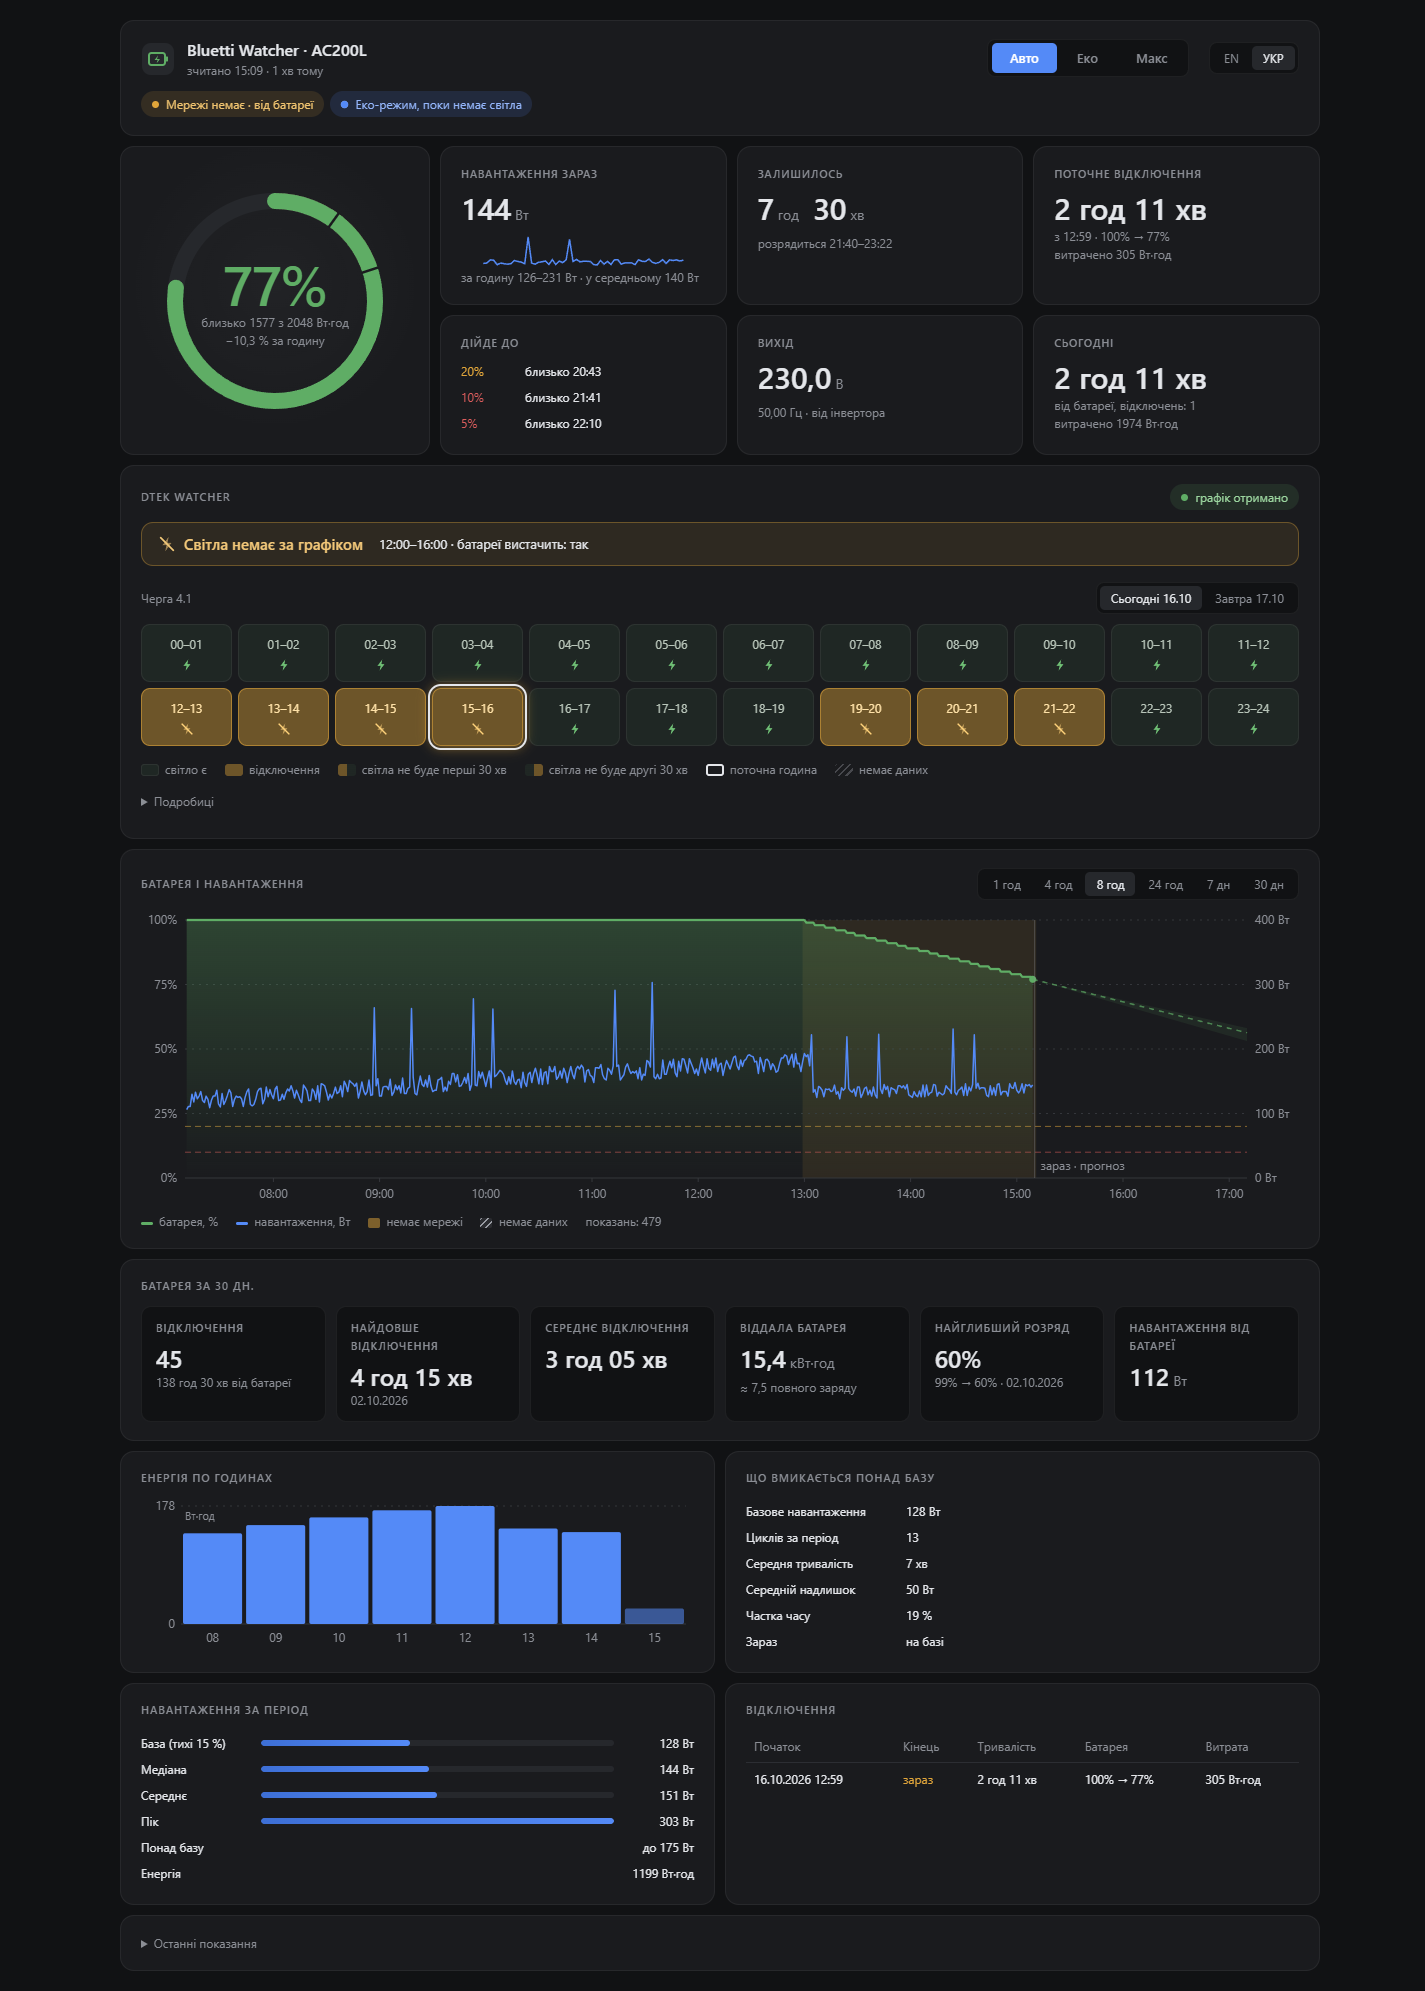
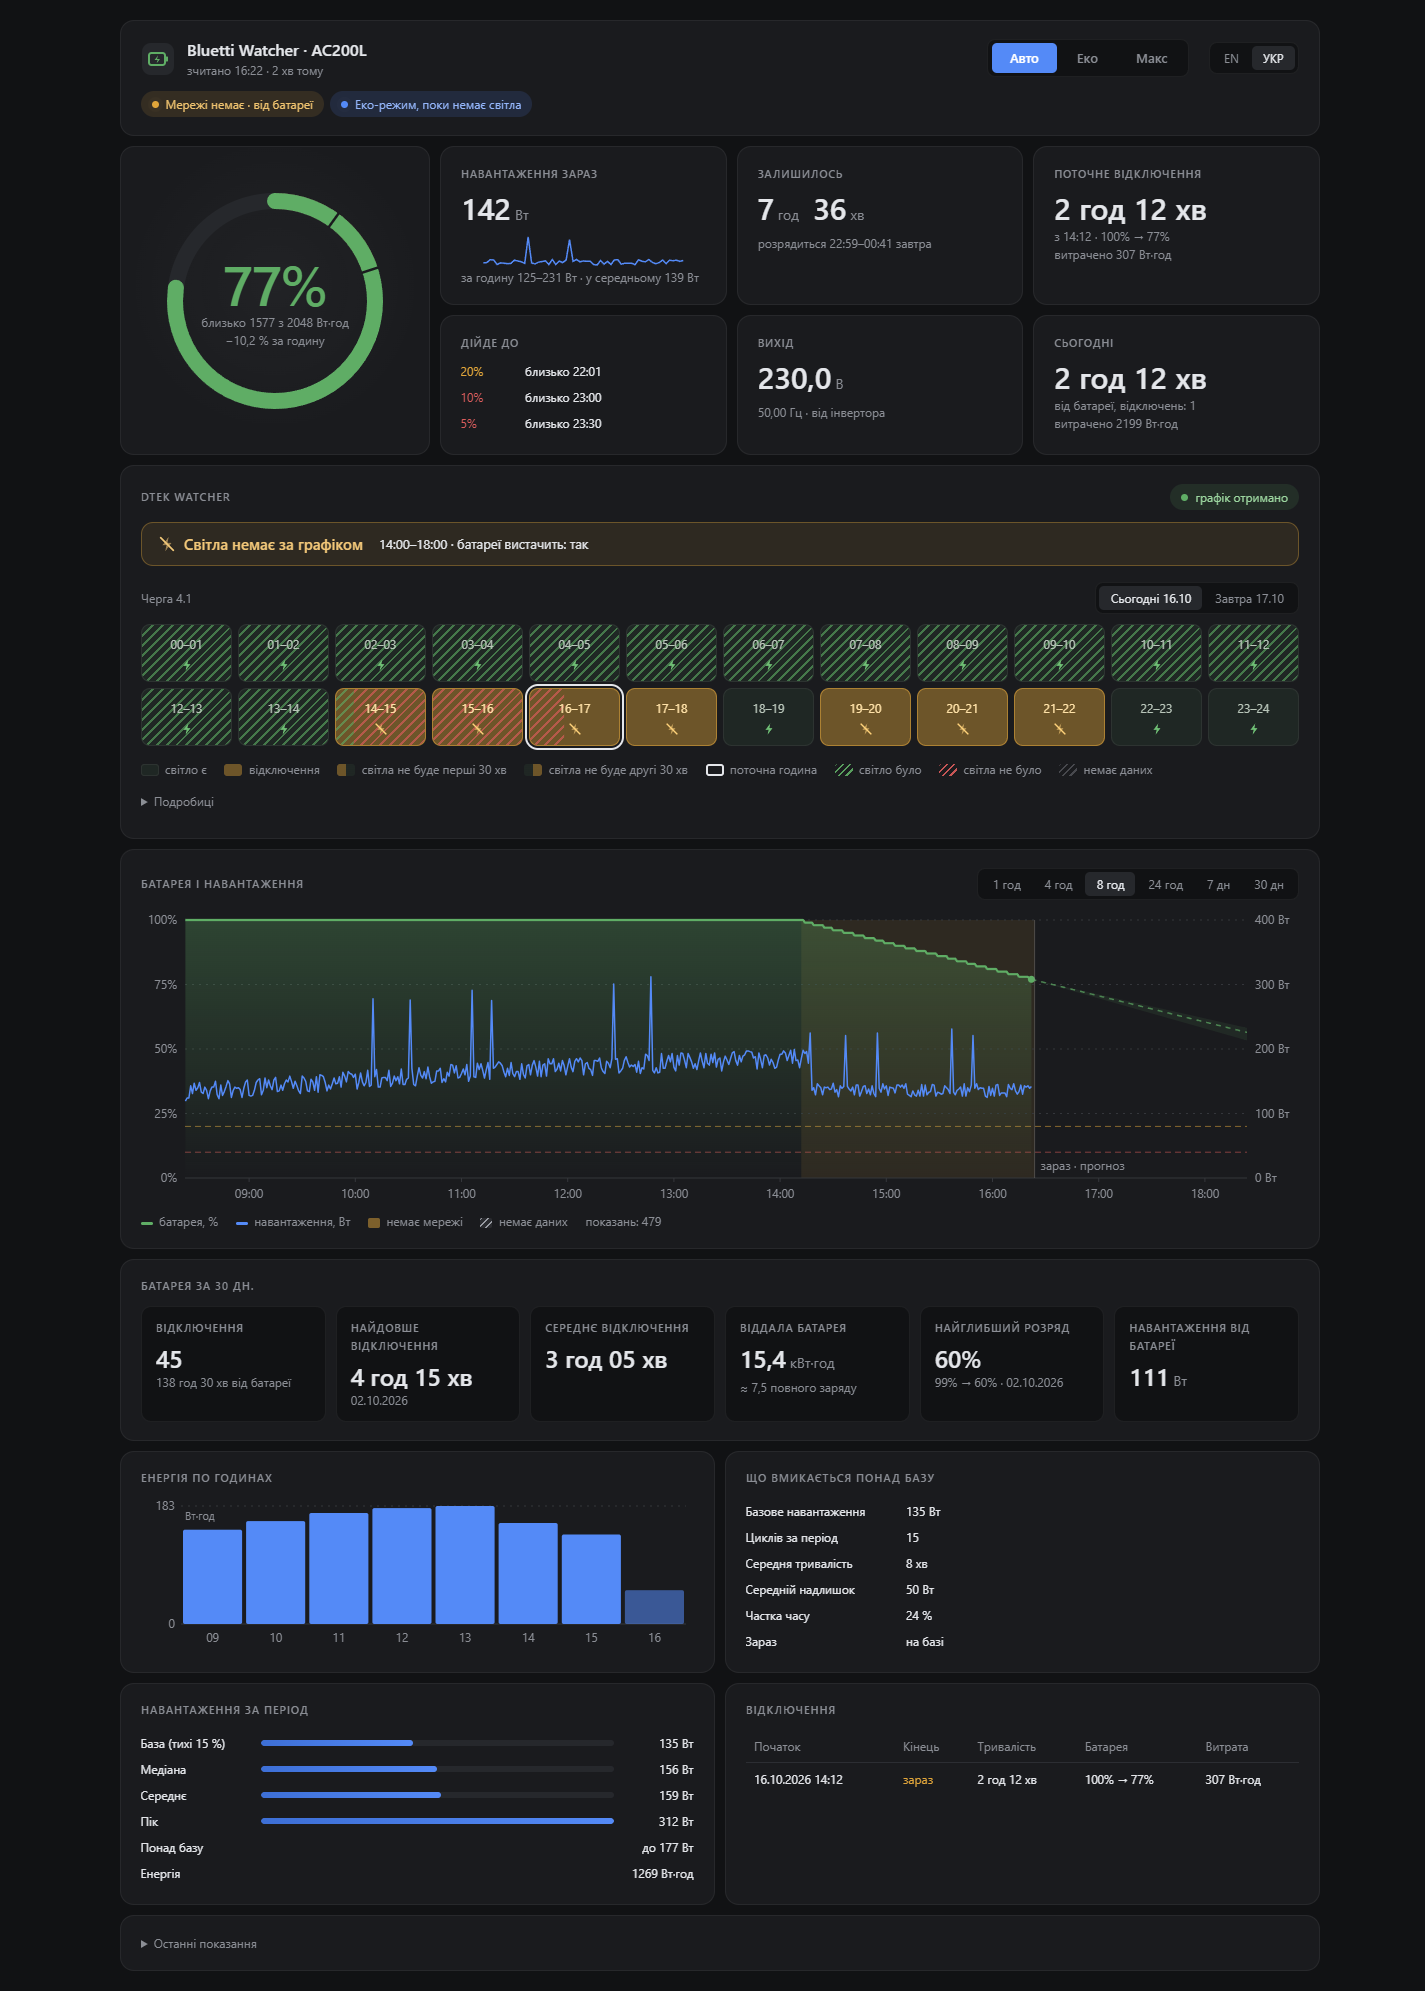
Bluetti Watcher 1.3.2: DTEK grid shows what really happened in past hours
Past minutes of today are hatched by the station's readings over the plan: power on,
power off or no reading, as phases in clock order on one stripe layer, each listed in the
cell tooltip. README, design doc and screenshots updated.

diff --git a/src/BluettiWatcher/Web/station.html b/src/BluettiWatcher/Web/station.html
@@ -60,7 +60,7 @@ tbody tr:hover td{background:rgba(255,255,255,.025)}
 .rowbar .fill{height:100%;border-radius:3px;background:linear-gradient(90deg,#3d6fd6,var(--load))}
 .rowbar .n{text-align:right;font-variant-numeric:tabular-nums}
 details summary{cursor:pointer;color:var(--dim);font-size:12px}
-#tip{position:fixed;pointer-events:none;background:var(--raised);border:1px solid var(--line);border-radius:8px;padding:6px 9px;font-size:12px;line-height:16px;display:none;z-index:5;max-width:340px;box-shadow:0 6px 18px rgba(0,0,0,.35)}
+#tip{white-space:pre-line;position:fixed;pointer-events:none;background:var(--raised);border:1px solid var(--line);border-radius:8px;padding:6px 9px;font-size:12px;line-height:16px;display:none;z-index:5;max-width:340px;box-shadow:0 6px 18px rgba(0,0,0,.35)}
 .note{color:var(--dim);font-size:12px;margin-top:10px}
 .dban{display:flex;flex-wrap:wrap;align-items:center;gap:6px 16px;padding:12px 16px;border-radius:12px;margin:12px 0 16px;font-size:13px}
 .dban b{display:inline-flex;align-items:center;gap:8px;font-size:15px;font-weight:600}
@@ -71,7 +71,12 @@ details summary{cursor:pointer;color:var(--dim);font-size:12px}
 .dtop{display:flex;align-items:center;justify-content:space-between;gap:10px;flex-wrap:wrap;margin-bottom:10px}
 .dq{color:var(--dim);font-size:12px}
 .dgrid{display:grid;grid-template-columns:repeat(12,1fr);gap:6px}
-.dgrid .c{height:58px;border-radius:9px;border:1px solid var(--edge);background:var(--onc);display:flex;flex-direction:column;align-items:center;justify-content:center;gap:5px;font-size:12px;font-variant-numeric:tabular-nums;color:#b9c6ba;transition:transform .15s,border-color .15s}
+.dgrid .c{height:58px;border-radius:9px;border:1px solid var(--edge);background:var(--onc);display:flex;flex-direction:column;align-items:center;justify-content:center;gap:5px;font-size:12px;font-variant-numeric:tabular-nums;color:#b9c6ba;transition:transform .15s,border-color .15s;position:relative;overflow:hidden}
+.dgrid .c>span,.dgrid .c>svg{position:relative;z-index:1}
+.dgrid .c .fact{position:absolute;inset:0;pointer-events:none}
+.fact.on{background:repeating-linear-gradient(135deg,rgba(95,173,101,.6) 0 2px,transparent 2px 7px)}
+.fact.off{background:repeating-linear-gradient(135deg,rgba(219,92,92,.65) 0 2px,transparent 2px 7px)}
+.fact.nd{background:repeating-linear-gradient(135deg,rgba(139,142,149,.45) 0 2px,transparent 2px 7px)}
 .dgrid .c svg{width:14px;height:14px;color:#6fbf75}
 .dgrid .c:hover{transform:translateY(-2px);border-color:rgba(255,255,255,.18)}
 .dgrid .c.off{background:var(--offc);border-color:rgba(224,165,58,.55);color:#ffe2a8}
@@ -345,6 +350,8 @@ en: {
   dtekSecondHalf: "no power for the second 30 min",
   dtekDetails: "Details",
   dtekOnUntil: "Power on until {at}",
+  dtekWasOn: "power was on",
+  dtekWasOff: "power was off",
   dtekBackEarly: "Power is back before the schedule",
   dtekPlannedUntil: "by the schedule until {at}",
   dtekUnplanned: "Outage outside the schedule",
@@ -581,6 +588,8 @@ uk: {
   dtekSecondHalf: "світла не буде другі 30 хв",
   dtekDetails: "Подробиці",
   dtekOnUntil: "Світло є до {at}",
+  dtekWasOn: "світло було",
+  dtekWasOff: "світла не було",
   dtekBackEarly: "Світло є раніше графіка",
   dtekPlannedUntil: "за графіком до {at}",
   dtekUnplanned: "Відключення поза графіком",
@@ -954,7 +963,19 @@ function kyivOffsetDiffers(ms) {
 }
 
 // DTEK Watcher: the planned outages of the house's queue, as the service read them. Every text of the site is escaped.
-function renderDtek(w, th, mainsOn) {
+// What the station saw in each minute of today up to now: 'on' (mains), 'off' (battery) or 'nd' (no accepted reading within 10 minutes).
+// `day0` = the start of today's first minute in ms. A reading holds until the next one, or for one minute before a longer silence.
+function factMinutes(rows, day0, upto) {
+  const m = new Array(Math.max(0, upto)).fill('nd'), gap = 10 * 60000, end = day0 + upto * 60000, ok = rows.filter((r) => r.soc !== null);
+  for (let i = 0; i < ok.length; i++) {
+    const t = Date.parse(ok[i].at), next = i + 1 < ok.length ? Date.parse(ok[i + 1].at) : Date.now();
+    if (next <= day0 || t >= end) continue;
+    const to = next - t <= gap ? next : t + 60000, st = ok[i].mains ? 'on' : 'off';
+    for (let k = Math.max(0, Math.floor((t - day0) / 60000)); k < Math.min(upto, Math.ceil((to - day0) / 60000)); k++) m[k] = st;
+  }
+  return m;
+}
+function renderDtek(w, th, mainsOn, hist) {
   const card = $('dtekCard');
   card.hidden = !w || w.state === 'off';
   if (card.hidden) return;
@@ -1020,6 +1041,8 @@ function renderDtek(w, th, mainsOn) {
   const nowMin = minOf(kyivNow, kyivDmy(kyivNow)), nowDay = kyivDmy(kyivNow);
   const shown = w.queue ? w.windows.filter((q) => q.queue === w.queue).concat(w.windows.length && !w.windows.some((q) => q.queue === w.queue) ? [w.windows[0]] : []) : w.windows;
   const tomorrowPicked = dtekDay === 'tomorrow', day = tomorrowPicked ? w.tomorrow : w.today;
+  // the hours already past, today only: what really happened, hatched over the plan
+  const fact = !tomorrowPicked && day === nowDay && hist && hist.length ? factMinutes(hist, nowMs - nowMs % 60000 - nowMin * 60000, nowMin) : null;
   const tab = (key, label, has) => `<button data-day="${key}" aria-pressed="${dtekDay === key}">${esc(label)}${has ? '' : ` · ${t('noData')}`}</button>`;
   let grid = shown.length ? `<div class="dtop"><span class="dq">${t('queue')} ${esc(shown.map((q) => qd(q.queue)).join(', '))}</span><div class="seg" id="dtekTabs">${tab('today', t('dtekTodayDay', { d: w.today.slice(0, 5) }), shown.some((q) => q.today))}${tab('tomorrow', t('dtekTomorrowDay', { d: w.tomorrow.slice(0, 5) }), shown.some((q) => q.tomorrow))}</div></div>` : '';
   for (const q of shown) {
@@ -1031,11 +1054,22 @@ function renderDtek(w, th, mainsOn) {
       const full = cover.length === 1 && cover[0][0] === a0 && cover[0][1] === b0;
       const fill = cover.length && !full ? `background:linear-gradient(90deg,${cover.map(([a, b]) => `transparent ${(a - a0) / 0.6}%,var(--offc) ${(a - a0) / 0.6}% ${(b - a0) / 0.6}%,transparent ${(b - a0) / 0.6}%`).join(',')}),var(--onc)` : '';
       const cls = ['c', text ? '' : 'nd', cover.length ? 'off' : '', day === nowDay && nowMin >= a0 && nowMin < b0 ? 'now' : ''].filter(Boolean).join(' ');
-      cells += `<div class="${cls}" style="${text ? fill : ''}" title="${pad(h)}:00–${pad((h + 1) % 24)}:00 · ${text ? (cover.length ? t('outage') : t('dtekPowerOn')) : t('noData')}"><span>${pad(h)}–${pad(h + 1)}</span>${text ? (cover.length ? icoOff : icoOn) : ''}</div>`;
+      let over = '', factTip = '';
+      if (fact && a0 < nowMin) {
+        // one line per phase, in order: its clock span, what it was and how long
+        const to = Math.min(b0, nowMin), word = { on: t('dtekWasOn'), off: t('dtekWasOff'), nd: t('noData') }, clock = (k) => `${pad(Math.floor(k / 60) % 24)}:${pad(k % 60)}`;
+        for (let k = a0; k < to;) {
+          let j = k; while (j < to && fact[j] === fact[k]) j++;
+          // every phase layer spans the whole cell and is clipped to its minutes, so the stripes run on across phases
+          over += `<i class="fact ${fact[k]}" style="clip-path:inset(0 ${((b0 - j) / 0.6).toFixed(2)}% 0 ${((k - a0) / 0.6).toFixed(2)}%)"></i>`;
+          factTip += `&#10;${clock(k)}–${clock(j)} ${word[fact[k]]} (${j - k} ${t('uMin')})`; k = j;
+        }
+      }
+      cells += `<div class="${cls}" style="${text ? fill : ''}" title="${pad(h)}:00–${pad((h + 1) % 24)}:00 · ${text ? (cover.length ? t('outage') : t('dtekPowerOn')) : t('noData')}${factTip}">${over}<span>${pad(h)}–${pad(h + 1)}</span>${text ? (cover.length ? icoOff : icoOn) : ''}</div>`;
     }
     grid += (shown.length > 1 ? `<div class="dq" style="margin:10px 0 6px">${t('queue')} ${esc(qd(q.queue))}</div>` : '') + `<div class="dgrid">${cells}</div>`;
   }
-  if (shown.length) grid += `<div class="slegend"><span><b style="background:var(--onc);border:1px solid var(--edge)"></b>${t('dtekPowerOn')}</span><span><b style="background:var(--offc)"></b>${t('outage')}</span><span><b style="background:linear-gradient(90deg,var(--offc) 50%,var(--onc) 50%)"></b>${t('dtekFirstHalf')}</span><span><b style="background:linear-gradient(90deg,var(--onc) 50%,var(--offc) 50%)"></b>${t('dtekSecondHalf')}</span><span><b style="outline:2px solid var(--text);outline-offset:-2px"></b>${t('dtekNowHour')}</span><span><b style="background:repeating-linear-gradient(135deg,rgba(139,142,149,.4) 0 2px,transparent 2px 5px)"></b>${t('noData')}</span>${kyivTag}</div>`;
+  if (shown.length) grid += `<div class="slegend"><span><b style="background:var(--onc);border:1px solid var(--edge)"></b>${t('dtekPowerOn')}</span><span><b style="background:var(--offc)"></b>${t('outage')}</span><span><b style="background:linear-gradient(90deg,var(--offc) 50%,var(--onc) 50%)"></b>${t('dtekFirstHalf')}</span><span><b style="background:linear-gradient(90deg,var(--onc) 50%,var(--offc) 50%)"></b>${t('dtekSecondHalf')}</span><span><b style="outline:2px solid var(--text);outline-offset:-2px"></b>${t('dtekNowHour')}</span>${fact ? `<span><b style="background:repeating-linear-gradient(135deg,rgba(95,173,101,.9) 0 2px,transparent 2px 5px)"></b>${t('dtekWasOn')}</span><span><b style="background:repeating-linear-gradient(135deg,rgba(219,92,92,.9) 0 2px,transparent 2px 5px)"></b>${t('dtekWasOff')}</span>` : ''}<span><b style="background:repeating-linear-gradient(135deg,rgba(139,142,149,.4) 0 2px,transparent 2px 5px)"></b>${t('noData')}</span>${kyivTag}</div>`;
   $('dtekGrid').innerHTML = grid;
   $('dtekGrid').onclick = (e) => { const b = e.target.closest('[data-day]'); if (b) { dtekDay = b.dataset.day; show(); } };
   $('dtekBody').innerHTML = s;
@@ -1048,7 +1082,7 @@ function show() {
   if (!lastNow) return;
   // mains from the last reading, unknown when it is older than 10 minutes
   const last = lastRows && lastRows.length ? lastRows[lastRows.length - 1] : null;
-  renderDtek(lastNow.dtekWatcher, lastNow.thresholds, last && Date.now() - Date.parse(last.at) < 600000 ? !!last.mains : null);
+  renderDtek(lastNow.dtekWatcher, lastNow.thresholds, last && Date.now() - Date.parse(last.at) < 600000 ? !!last.mains : null, lastRows);
   render({ ...lastNow, rows: lastRows });
 }
 // Readings come once a minute, so the page asks once a minute, and only while it is seen. The 26 h of history is read whole

diff --git a/tests/BluettiWatcher.Tests/CliTests.cs b/tests/BluettiWatcher.Tests/CliTests.cs
@@ -71,7 +71,7 @@ public sealed class CliTests
     [Fact]
     public void The_version_line_names_the_product_and_the_project_version()
     {
-        Assert.Equal("Bluetti Watcher 1.3.1", Cli.VersionText());
+        Assert.Equal("Bluetti Watcher 1.3.2", Cli.VersionText());
     }
 
     [Fact]
@@ -136,7 +136,7 @@ public sealed class CliTests
     {
         using var run = await new Run().Execute("--version");
         Assert.Equal(0, run.Outcome!.Exit);
-        Assert.Equal("Bluetti Watcher 1.3.1" + Environment.NewLine, run.Out.ToString());
+        Assert.Equal("Bluetti Watcher 1.3.2" + Environment.NewLine, run.Out.ToString());
         Assert.Equal(0, run.Logins);
     }
 

diff --git a/CHANGELOG.md b/CHANGELOG.md
@@ -6,6 +6,24 @@ The release notes on GitHub are this file's section for the tag.
 
 ## [Unreleased]
 
+## [1.3.2] - 2026-10-16
+
+### Download
+
+| File | What it is |
+|---|---|
+| `bluetti-watcher-1.3.2-win-x64.zip` | The service, the power-mode scripts, the installer and the docs |
+| `bluetti-watcher-1.3.2-win-x64.zip.sha256` | Its SHA-256. Check with `(Get-FileHash bluetti-watcher-1.3.2-win-x64.zip).Hash` |
+
+Upgrade: extract the zip, then `pwsh -NoProfile -File install.ps1` (a dry run) and the same with `-Apply`. Your
+config, database and history stay. Requirements and details: [README](https://github.com/vitaliy-shatskiy/bluetti-watcher#quick-start).
+
+### Added
+
+- Dashboard, DTEK hour grid: the hours of today already past show what the station really saw, hatched over the plan,
+  minute by minute: green = power was on, red = power was off, grey = no reading. A tooltip lists each phase with its
+  clock span and length.
+
 ## [1.3.1] - 2026-10-16
 
 ### Download
@@ -239,7 +257,8 @@ with `-Apply`. Requirements and details: [README](https://github.com/vitaliy-sha
 
 Source at this tag: [v1.0.0](https://github.com/vitaliy-shatskiy/bluetti-watcher/tree/v1.0.0)
 
-[Unreleased]: https://github.com/vitaliy-shatskiy/bluetti-watcher/compare/v1.3.1...HEAD
+[Unreleased]: https://github.com/vitaliy-shatskiy/bluetti-watcher/compare/v1.3.2...HEAD
+[1.3.2]: https://github.com/vitaliy-shatskiy/bluetti-watcher/compare/v1.3.1...v1.3.2
 [1.3.1]: https://github.com/vitaliy-shatskiy/bluetti-watcher/compare/v1.3.0...v1.3.1
 [1.3.0]: https://github.com/vitaliy-shatskiy/bluetti-watcher/compare/v1.2.0...v1.3.0
 [1.2.0]: https://github.com/vitaliy-shatskiy/bluetti-watcher/compare/v1.1.1...v1.2.0

diff --git a/README.uk.md b/README.uk.md
@@ -82,7 +82,7 @@ pwsh -NoProfile -File "$env:LOCALAPPDATA\bluetti-watcher\power-mode\power-mode.p
   (`fittedRuntime`, увімкнено за замовчуванням).
 - Ручне керування на сторінці: Auto, Eco, Max.
 - Власна команда на початок кожного режиму (`actions`) і файл-прапорець, який можуть читати інші програми.
-- За бажання - таймер пробудження та графік планових відключень ДТЕК (Київщина): сітка годин на сьогодні й завтра, звірена з тим, що бачить станція.
+- За бажання - таймер пробудження та графік планових відключень ДТЕК (Київщина): сітка годин на сьогодні й завтра, звірена з тим, що бачить станція, а в минулих годинах видно, чи було світло насправді.
 - Один NativeAOT exe, заплановане завдання для користувача, без вікна й без значка в треї.
 
 ## Знімки екрана

diff --git a/docs/design.md b/docs/design.md
@@ -360,6 +360,9 @@ changes a decision. Use it to stop a heavy program when eco starts, or to notify
   discharge, load on battery. The layout fits a phone (tooltips on tap), Full HD and 2K (scaled up from 2200 px).
 - The DTEK banner checks the plan against the last reading (at most 10 minutes old): power back before the planned end
   shows green, an outage the schedule does not have shows amber.
+- The hours of today already past carry what happened, hatched over the plan: each minute takes the state of the last
+  accepted reading (mains or battery) while the next one comes within 10 minutes, else it is unknown. Runs of one state
+  are drawn as phases in clock order on one stripe layer, and the cell tooltip lists each phase with its span.
 - The page speaks English and Ukrainian. The default is the browser's language (`uk*` -> Ukrainian, else English); the
   switch in the header remembers the choice in the browser.
 - Prose the page shows also comes with a stable code it translates by (`notes`, `ecoNote`, `modeErrorNote`,

diff --git a/README.md b/README.md
@@ -80,7 +80,7 @@ pwsh -NoProfile -File "$env:LOCALAPPDATA\bluetti-watcher\power-mode\power-mode.p
   eco-mode saving counted early in a cut, and a likely range once 5 cuts are recorded (`fittedRuntime`, on by default).
 - Manual control on the page: Auto, Eco, Max.
 - Your own command when a mode begins (`actions`), and a flag file other programs can read.
-- Optional wake timer and DTEK planned-outage schedule (Kyiv region): an hour grid for today and tomorrow, checked against the station's own mains reading.
+- Optional wake timer and DTEK planned-outage schedule (Kyiv region): an hour grid for today and tomorrow, checked against the station's own mains reading, and the hours already past show whether there really was power.
 - One NativeAOT exe, a per-user scheduled task, no window and no tray.
 
 ## Screenshots
